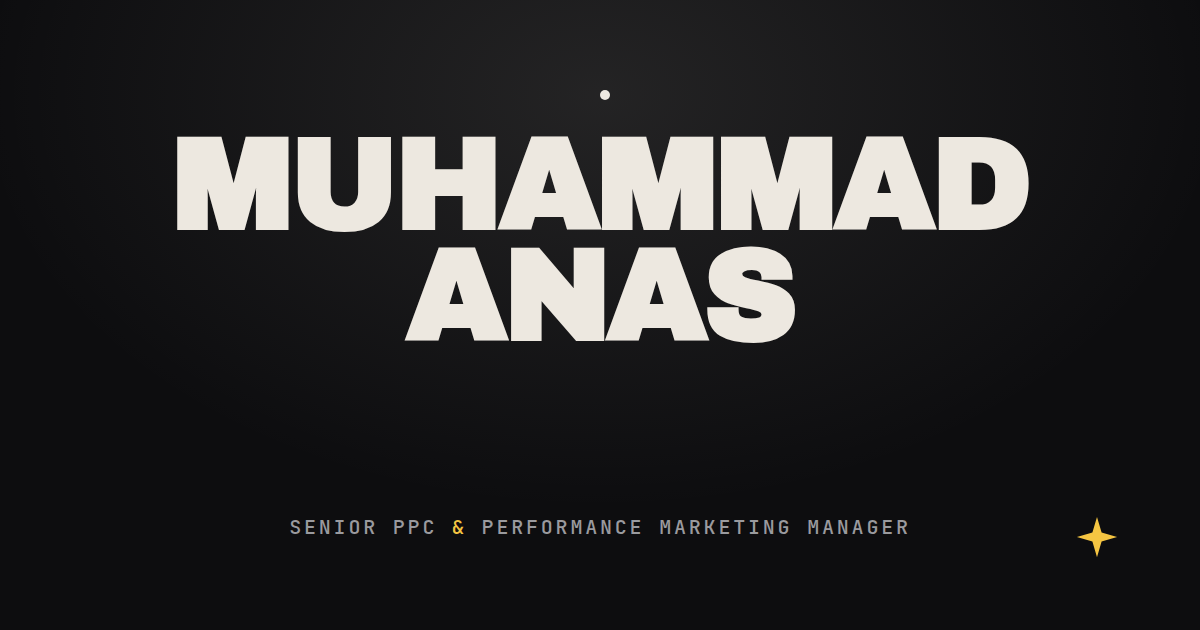
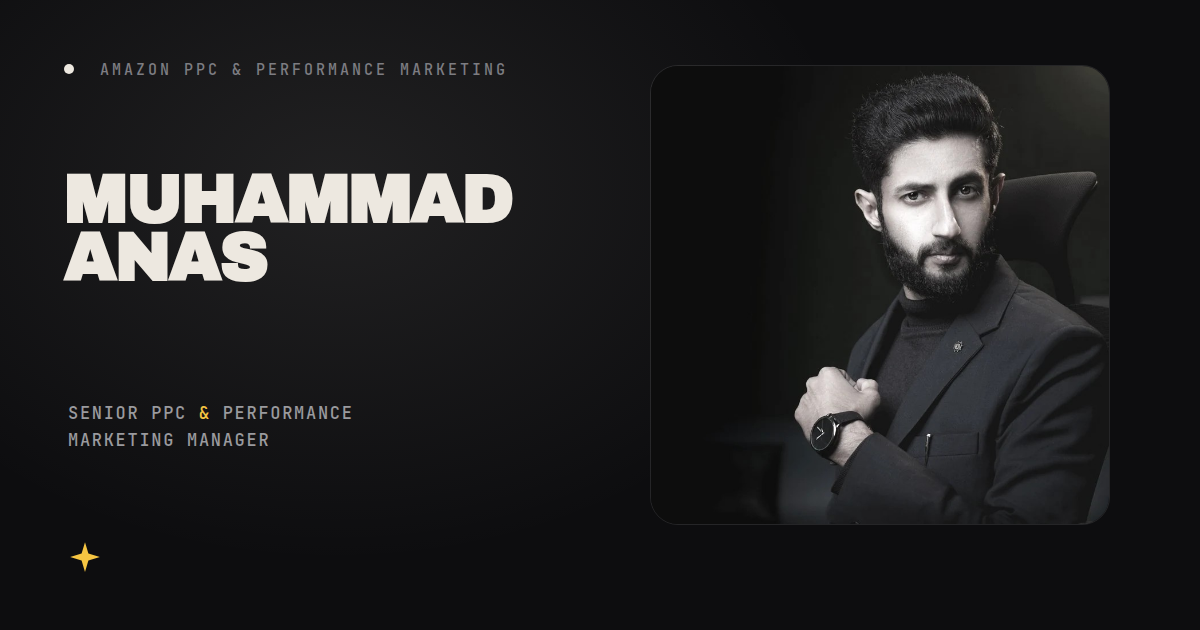
Add real portrait, fill in AMZ One Step dates
- Hero.jsx now uses the real portrait (desaturated, warm-toned to sit
  in the palette) instead of the "MA" placeholder block, served as
  webp with a jpg fallback via <picture>, preloaded with fetchPriority
  to protect LCP.
- Experience.jsx: AMZ One Step period filled in as Aug 2025 - Aug
  2026, with a note that it ran alongside the Sohomax engagement
  (the two overlap), per the brief's own guidance to state an overlap
  rather than leave it unexplained. Removed the now-resolved TODO.
- OG image regenerated to include the portrait instead of text-only.
- Verified stable at Performance 95-96 / Accessibility 100 /
  Best Practices 100 / SEO 100 across three mobile Lighthouse runs
  after the portrait was added (an early version regressed LCP via a
  delayed fade-in; shortened the entrance and added a preload hint).

Claude-Session: https://claude.ai/code/session_01HsabHebPBSUGsXThAMLYcP

diff --git a/portfolio/src/components/Hero.jsx b/portfolio/src/components/Hero.jsx
@@ -1,5 +1,7 @@
 import { useRef } from "react";
 import { motion, useScroll, useTransform, useMotionValue, useSpring, useReducedMotion } from "framer-motion";
+import portraitWebp from "../assets/portrait.webp";
+import portraitJpg from "../assets/portrait.jpg";
 
 /**
  * Hero
@@ -71,6 +73,10 @@ export default function Hero() {
       onPointerMove={handleMove}
       className="relative flex min-h-[100svh] flex-col justify-center overflow-hidden px-6 pb-16 pt-28 md:px-10"
     >
+      {/* Hints the browser to fetch the portrait (the LCP element) before it
+          would otherwise discover it via the CSS/JS-driven <picture> below. */}
+      <link rel="preload" as="image" href={portraitWebp} fetchPriority="high" />
+
       {/* Cursor-tracked spotlight */}
       <motion.div
         aria-hidden
@@ -106,15 +112,22 @@ export default function Hero() {
 
       {/* Portrait, overlapping the wordmark */}
       <motion.div
-        initial={reduce ? false : { opacity: 0, y: 28, scale: 0.94 }}
+        initial={reduce ? false : { opacity: 0, y: 16, scale: 0.97 }}
         animate={{ opacity: 1, y: 0, scale: 1 }}
-        transition={{ duration: 1, delay: 0.75, ease: [0.16, 1, 0.3, 1] }}
+        transition={{ duration: 0.5, delay: 0.1, ease: [0.16, 1, 0.3, 1] }}
         className="relative mx-auto -mt-[6%] h-[clamp(7rem,14vw,11rem)] w-[clamp(7rem,14vw,11rem)] overflow-hidden rounded-[22px] border border-white/10 bg-[#1a1a1d]"
       >
-        {/* REPLACE: real portrait — square, ~1000×1000, desaturated */}
-        <div className="flex h-full w-full items-center justify-center font-mono text-sm tracking-[0.2em] text-[#9a9a9e]">
-          MA
-        </div>
+        <picture>
+          <source srcSet={portraitWebp} type="image/webp" />
+          <img
+            src={portraitJpg}
+            alt="Portrait of Muhammad Anas"
+            fetchPriority="high"
+            className="h-full w-full object-cover"
+            width={800}
+            height={800}
+          />
+        </picture>
       </motion.div>
 
       {/* Footer copy */}

diff --git a/portfolio/src/components/Experience.jsx b/portfolio/src/components/Experience.jsx
@@ -6,15 +6,9 @@ import { motion, useInView, useReducedMotion } from "framer-motion";
  * ---------------------------------------------------------------------------
  * SOURCED STRICTLY FROM THE LINKEDIN PROFILE EXPORT, plus AMZ One Step.
  *
- * ⚠ TWO THINGS TO SETTLE BEFORE THIS SHIPS
- *
- * 1. AMZ_ONE_STEP dates are placeholders. Fill them in. If the role ran
- *    alongside Sohomax rather than after it, say so in the `note` field —
- *    an unexplained overlap looks worse than a stated one.
- *
- * 2. Forsit is deliberately NOT here. It does not appear anywhere on the
- *    LinkedIn export. If the role is real, add it to LinkedIn first, then
- *    add it here. If it is not, leave it out permanently.
+ * Forsit is deliberately NOT here. It does not appear anywhere on the
+ * LinkedIn export. If the role is real, add it to LinkedIn first, then
+ * add it here. If it is not, leave it out permanently.
  *
  * DELIBERATELY OMITTED CLAIMS, and why:
  *   · "300% market penetration"  — penetration is a share; it cannot exceed 100%
@@ -32,9 +26,9 @@ const ROLES = [
   {
     company: "AMZ One Step",
     role: "Senior PPC Manager",
-    period: "TODO — start – end", // ⚠ FILL THIS IN
+    period: "Aug 2025 – Aug 2026",
     place: "United States · Remote",
-    note: null, // e.g. "Ran alongside the Sohomax engagement"
+    note: "Ran alongside the Sohomax engagement.",
     points: [
       "Campaign strategy, bid governance and account audits for FBA brands across fashion, fitness, supplements and home categories.",
       "Weekly written performance reporting and quarterly growth roadmaps, delivered direct to brand owners.",

diff --git a/portfolio/README.md b/portfolio/README.md
@@ -31,11 +31,6 @@ already included in `public/` and copied into every build.
 
 ## Outstanding before this ships
 
-- `src/components/Experience.jsx` — fill in the real AMZ One Step dates
-  (currently a `TODO` placeholder), and add a `note` if that role overlapped
-  with Sohomax.
-- `src/components/Hero.jsx` — swap the placeholder "MA" portrait block for a
-  real square (~1000×1000, desaturated) photo.
 - `public/og-image.png` — currently a generated placeholder in the site's
   palette; swap for a designed version if you want a portrait or different
   layout in link previews.
